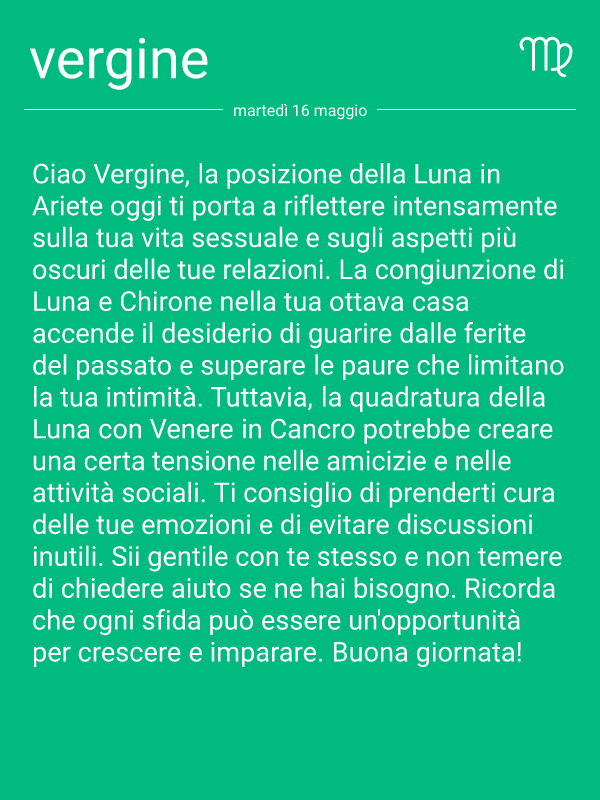
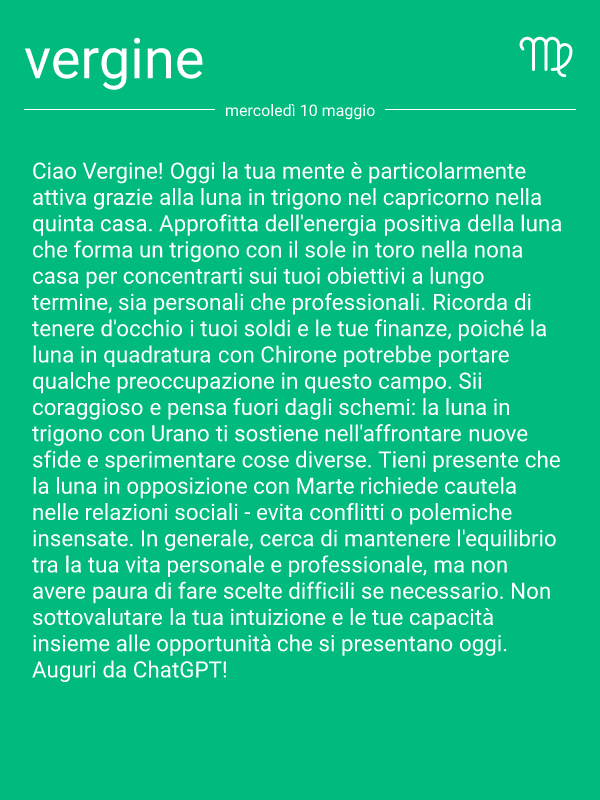
fixed DB hole

Changed region(s): [[0.03, 0.1875, 0.96, 0.875], [0.03, 0.0312, 0.36, 0.125], [0.36, 0.125, 0.63, 0.1562]]

diff --git a/horoscopes/getHoroscopes.js b/horoscopes/getHoroscopes.js
@@ -23,7 +23,7 @@ import { getPrompts } from "./horoscope-lib/getPrompts.js";
          for (const prompt of prompts) {
            console.log("PARTITO!!!");
            // const fullPrompt = `Per il segno zodiacale ${rompt.sign} questi gli aspetti di oggi: ${prompt.moonPrompts}. Basandoti sul significato di questi aspetti, scrivi un oroscopo del giorno, in italiano impeccabile senza errori grammaticali, che sia spiritoso  e originale, come quelli che si trovano su riviste e quotidiani. Non superare le 170 parole. Tieni presente che se in un aspetto c'è opposizione o quadratura, anche la congiunzione e il trigono sono negativi (es. luna congiunzione giove, ma con luna o giove in opposizione al segno, è aspetto totalmente negativo). Sii onesto ma incoraggiante.`;
-           const fullPrompt = `Per il segno zodiacale ${prompt.sign} questi gli aspetti di oggi: ${prompt.moonPrompts}. Scrivi un oroscopo del giorno, brillante e originale, in italiano impeccabile senza errori grammaticali. Se un aspetto presenta un'opposizione o una quadratura, anche la congiunzione e il trigono associati sono considerati negativi. Per favore, evita di presentare gli aspetti positivi come tali se il segno è in opposizione o quadratura rispetto a un pianeta coinvolto. Sii onesto e preciso, ma incoraggiante. non superare le 170 parole ` 
+           const fullPrompt = `Per il segno zodiacale ${prompt.sign} questi gli aspetti di oggi: ${prompt.moonPrompts}. Scrivi un oroscopo del giorno, brillante e originale, in italiano impeccabile senza errori grammaticali. Se un aspetto presenta un'opposizione o una quadratura, anche la congiunzione e il trigono associati sono considerati negativi. Per favore, evita di presentare gli aspetti positivi come tali se il segno è in opposizione o quadratura rispetto a un pianeta coinvolto. Sii onesto e preciso, ma incoraggiante. non superare le 160 parole ` 
            const response = await api.sendMessage(fullPrompt);
            const text = response.text;
            console.log(text)

diff --git a/index.js b/index.js
@@ -16,7 +16,7 @@ async function main() {
   try {
     const day = 2
     // await generateAllImages(-7)
-await tweetAllImages(0)
+// await tweetAllImages(0)
 //     const day = 3 // 0 === today, 1 === tomorrow , -1 yesterday
 //     const {dateColons, dateDashes} = getFormattedDate(0)
 // const data = await getDataFromDB(dateDashes)
@@ -29,7 +29,7 @@ await tweetAllImages(0)
 // }
 // console.log('SAVED ALL!!!')
 // await tweetTest(0)
-  //  await  cronGetHoroscopesAndSaveToDB(2)
+   await  cronGetHoroscopesAndSaveToDB(1)
   //   //generate daily horoscope
   //   // const sign = 'toro'
   //   const { dateColons, dateDashes } = getFormattedDate(3);

diff --git a/cards/template.js b/cards/template.js
@@ -58,8 +58,8 @@ export function generateTemplate(sign, horoscope, dateString) {
 
 
     
-      <h3 style="font-weight: lighter;  margin:0 .3rem; font-size:3.5rem;">${sign}</h3>
-      <img src=${zodiacIcons[sign].icon} width="60px"alt="" style=""/>
+      <h3 style="font-weight: lighter;  margin:0 .3rem; font-size:3.5rem; margin : 0;">${sign}</h3>
+      <img src=${zodiacIcons[sign].icon} width="60px"alt="" style="margin: 0"/>
       
   </div>
   <p style=" 

diff --git a/twitter/tweetImage.js b/twitter/tweetImage.js
@@ -26,7 +26,7 @@ const allImages = await generateAllImages(day)
 console.log(allImages)
     for (let signImg of allImages) {
         const {signName, imgBuffer} = signImg
-const text = `Buongiorno ${signName}!`
+const text = `Ciao ${signName}!`
         await tweetSingleImage(imgBuffer, text)
     }
 

diff --git a/cron.js b/cron.js
@@ -15,7 +15,7 @@ cron.schedule('30 7 * * *', ()=> tweetAllImages(0),  {
     scheduled: true,
     timezone: "Europe/Rome"
   })
-cron.schedule('40 13 * * *', ()=> tweetAllImages(0),  {
+cron.schedule('40 19 * * *', ()=> tweetAllImages(0),  {
     scheduled: true,
     timezone: "Europe/Rome"
   })
